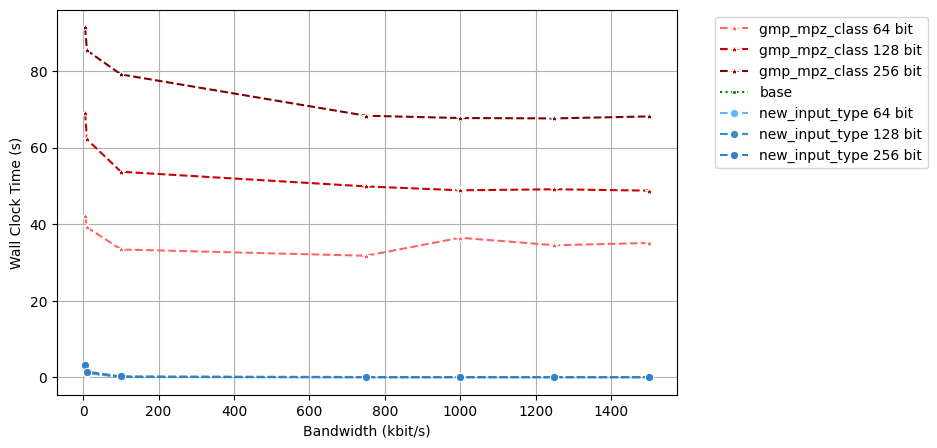
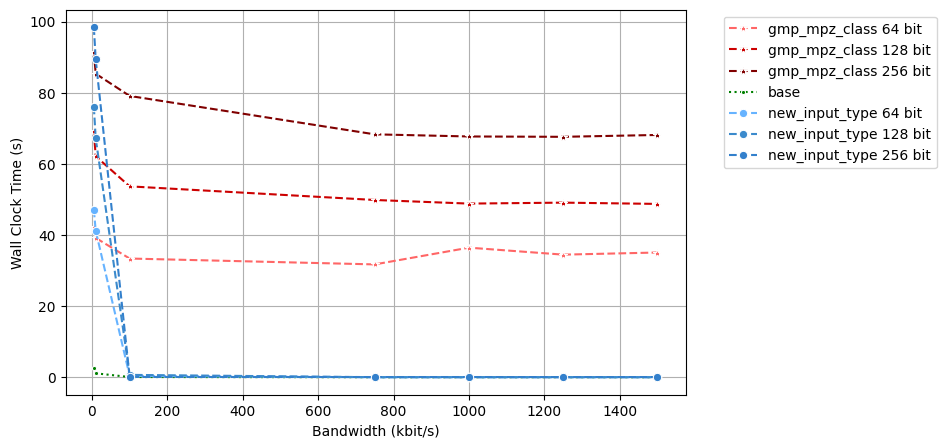
bandwidth online neu vermessen

diff --git a/plots/code/online/bandwidth_online.py b/plots/code/online/bandwidth_online.py
@@ -41,19 +41,19 @@ df_mpz_256 = pd.DataFrame({
 
 df_nit_64 = pd.DataFrame({
     "x": [x1,x2,x3,x4,x5,x6,x7],
-    "y": [0.038,0.038,0.039,0.038,0.073,1.044,1.459],
+    "y": [0.038,0.038,0.039,0.038,0.834,38.064,48.071],
     "Approach": "new_input_type 64 bit"
 })
 
 df_nit_128 = pd.DataFrame({
     "x": [x1,x2,x3,x4,x5,x6,x7],
-    "y": [0.071,0.068,0.074,0.069,0.215,1.344,1.784],
+    "y": [0.071,0.068,0.074,0.069,0.805,56.91,65.108],
     "Approach": "new_input_type 128 bit"
 })
 
 df_nit_256 = pd.DataFrame({
     "x": [x1,x2,x3,x4,x5,x6,x7],
-    "y": [0.152,0.144,0.149,0.15,0.344,1.521,1.908],
+    "y": [0.152,0.144,0.149,0.15,0.709,79.796,84.715],
     "Approach": "new_input_type 256 bit"
 })
 
@@ -104,19 +104,19 @@ df_mpz_256 = pd.DataFrame({
 
 df_nit_64 = pd.DataFrame({
     "x": [x1,x2,x3,x4,x5,x6,x7],
-    "y": [0.039,0.041,0.042,0.046,0.096,1.108,2.681],
+    "y": [0.039,0.041,0.042,0.046,0.409,41.201,47.166],
     "Approach": "new_input_type 64 bit"
 })
 
 df_nit_128 = pd.DataFrame({
     "x": [x1,x2,x3,x4,x5,x6,x7],
-    "y": [0.052,0.049,0.052,0.049,0.146,1.308,2.981],
+    "y": [0.052,0.049,0.052,0.049,0.7,67.163,76.129],
     "Approach": "new_input_type 128 bit"
 })
 
 df_nit_256 = pd.DataFrame({
     "x": [x1,x2,x3,x4,x5,x6,x7],
-    "y": [0.091,0.086,0.093,0.091,0.231,1.49,3.205],
+    "y": [0.091,0.086,0.093,0.091,0.12,89.368,98.441],
     "Approach": "new_input_type 256 bit"
 })
 
